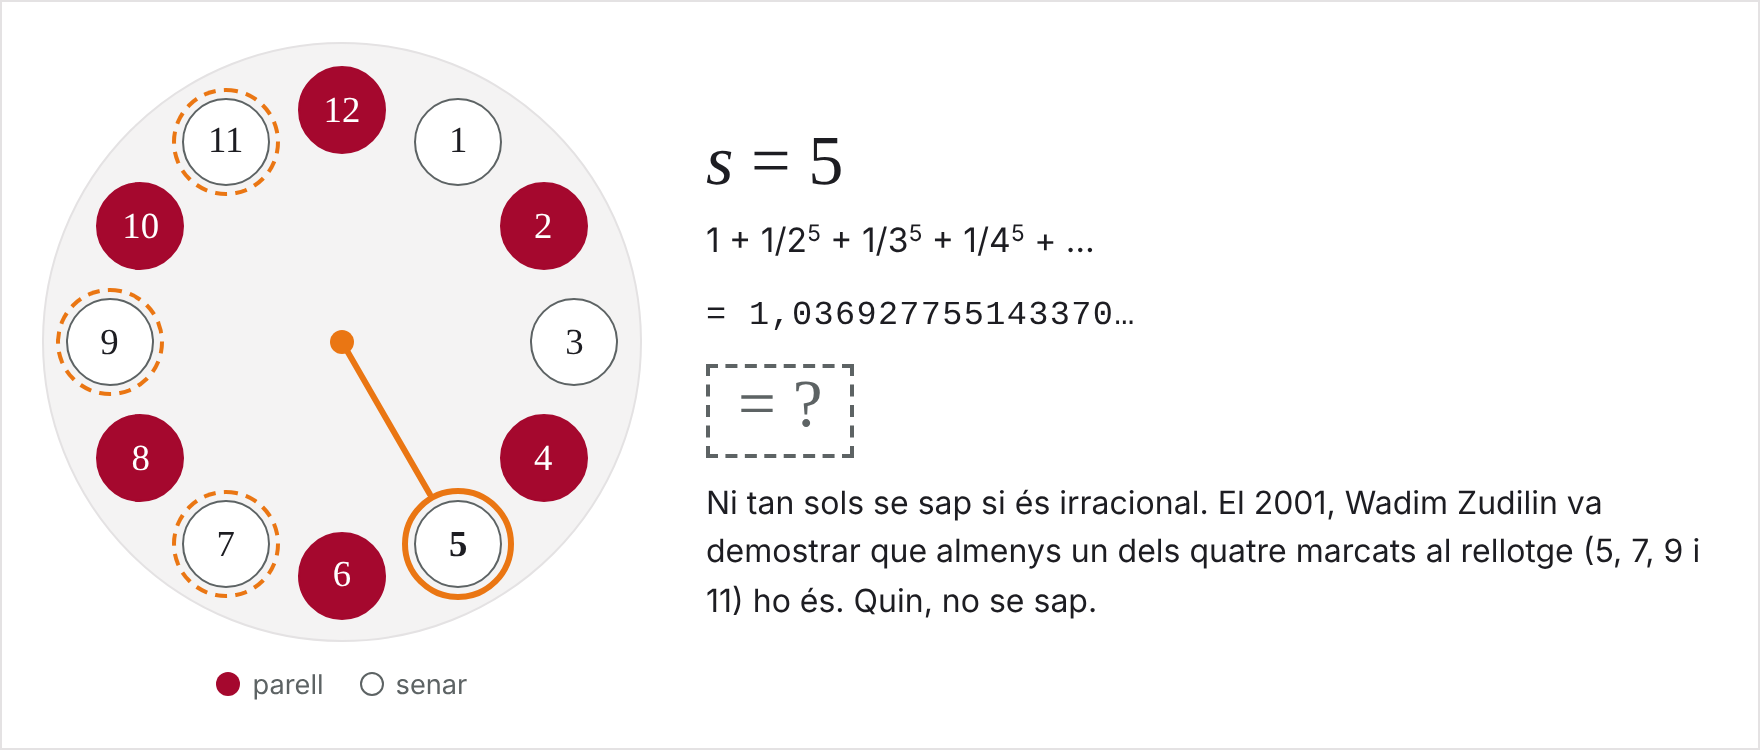
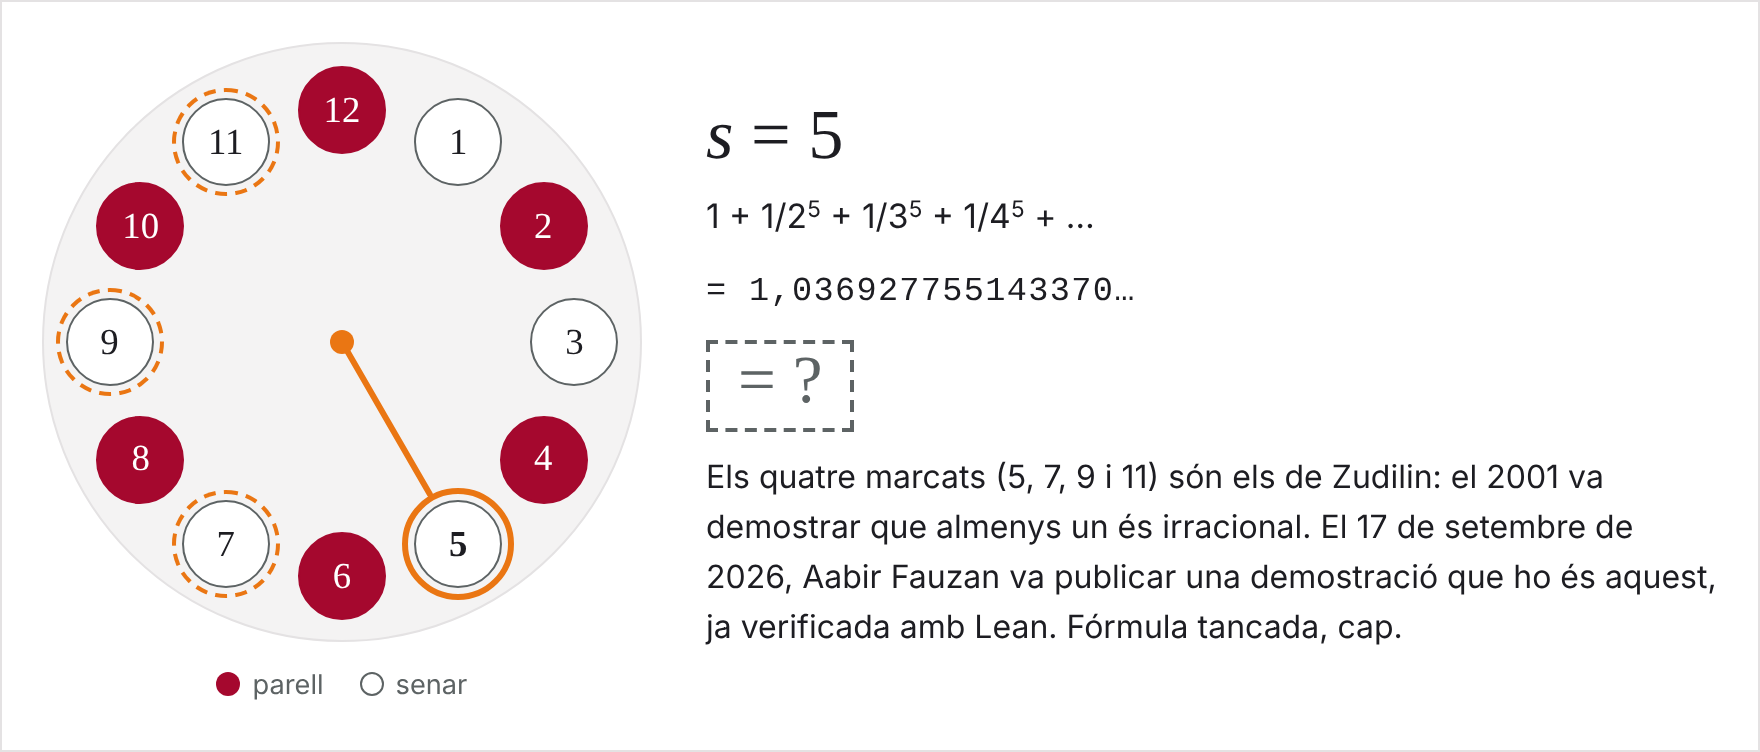
Rellotge: actualitza la nota de ζ(5)
Aabir Fauzan va publicar el 17 de setembre de 2026 una demostració
que ζ(5) és irracional, ja verificada amb Lean. La nota de s = 5 ho
explica i la de 7, 9 i 11 ho recull; nova captura del rellotge.

Claude-Session: https://claude.ai/code/session_01B4AHcFHJWz43ggcHFHHV4B

diff --git a/index.html b/index.html
@@ -610,8 +610,9 @@ html,body{margin:0;padding:0;background:var(--cb-bg);color:var(--cb-ink)}
     10: { html: "π<sup>10</sup>/93.555", v: Math.pow(PI, 10) / 93555 },
     12: { html: "691 π<sup>12</sup>/638.512.875", v: 691 * Math.pow(PI, 12) / 638512875 }
   };
-  var ODD_NOTE = "Ni tan sols se sap si és irracional. El 2001, Wadim Zudilin va demostrar que almenys un dels quatre marcats al rellotge (5, 7, 9 i 11) ho és. Quin, no se sap.";
+  var ODD_NOTE = "Ni tan sols se sap si és irracional. El 2001, Wadim Zudilin va demostrar que almenys un dels quatre marcats al rellotge (5, 7, 9 i 11) ho és, i des del setembre de 2026 se sap que ho és el 5.";
   var NOTE = {
+    5: "Els quatre marcats (5, 7, 9 i 11) són els de Zudilin: el 2001 va demostrar que almenys un és irracional. El 17 de setembre de 2026, Aabir Fauzan va publicar una demostració que ho és aquest, ja verificada amb Lean. Fórmula tancada, cap.",
     1: "És la sèrie harmònica de la cursa, i no s'atura mai: Pietro Mengoli ja ho havia demostrat el 1650.",
     2: "El problema de Basilea. Euler en va presentar la solució el desembre de 1735, amb vint-i-vuit anys.",
     3: "La constant d'Apéry. Roger Apéry va demostrar el 1978 que és irracional. Una fórmula tancada, ningú no l'ha trobada.",
@@ -685,7 +686,7 @@ html,body{margin:0;padding:0;background:var(--cb-bg);color:var(--cb-ink)}
         c.hidden = true;
       }
     }
-    $("cb-note").textContent = (s % 2 === 1 ? (s >= 5 ? ODD_NOTE : NOTE[s]) : NOTE[s]);
+    $("cb-note").textContent = NOTE[s] || ODD_NOTE;
   }
 
   /* ---------- start ---------- */
